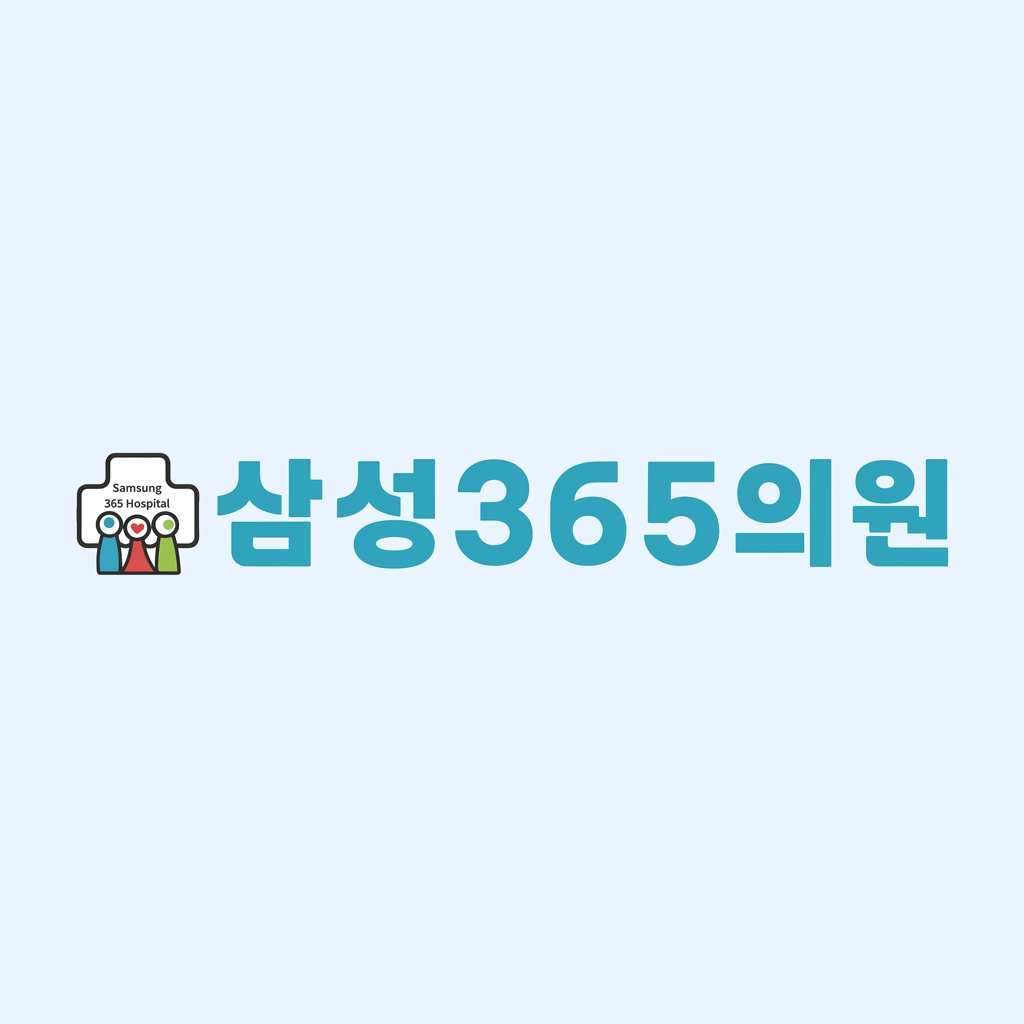
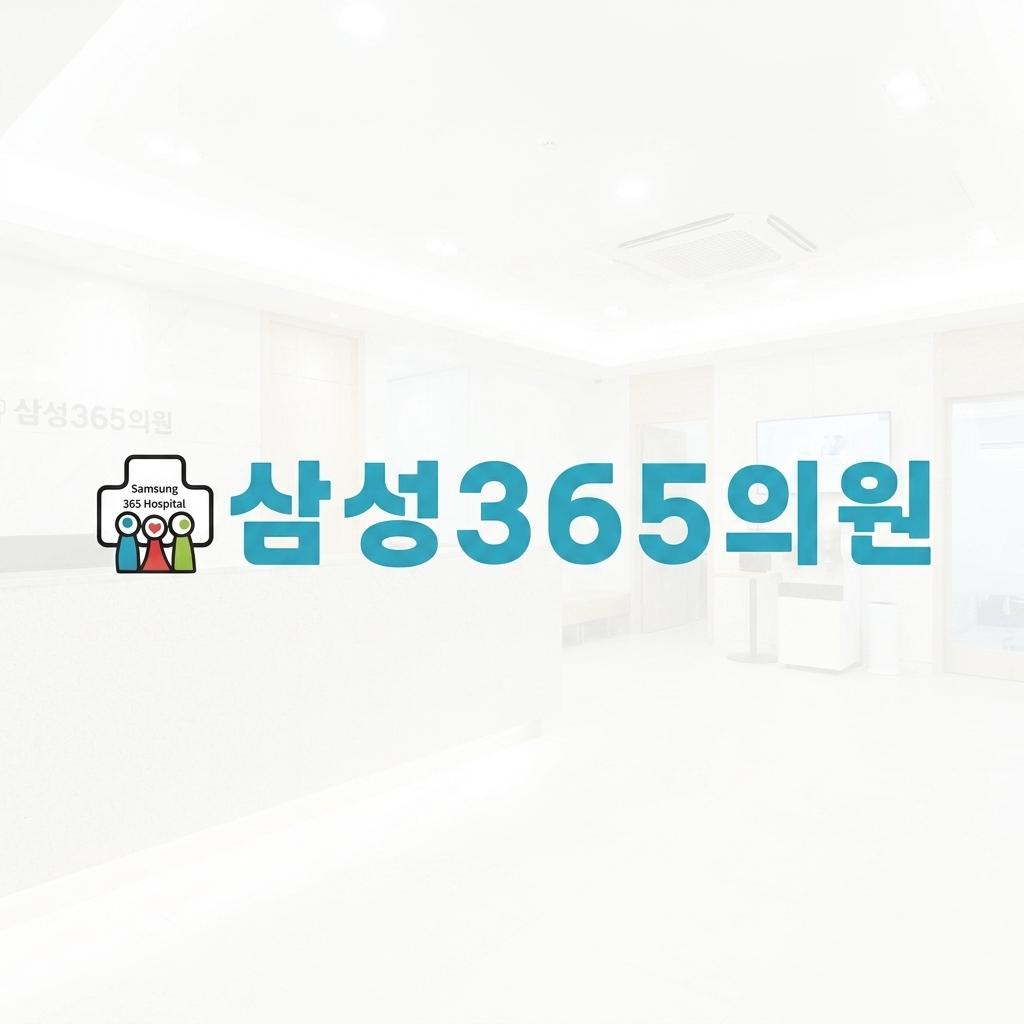
SEO: Update official domain to 3r-therapy.com, apply new OG image, and adjust mobile hero alignment

Changed region(s): [[0.0, 0.4375, 0.9375, 0.5625], [0.5625, 0.5938, 0.5938, 0.625], [0.4688, 0.5312, 0.5, 0.5625]]

diff --git a/index.html b/index.html
@@ -12,8 +12,8 @@
     <meta property="og:title" content="삼성365의원">
     <meta property="og:description" content="근본적인 원인을 찾아 정밀하게 진단합니다.">
     <meta property="og:type" content="website">
-    <meta property="og:url" content="https://samsung365clinic.com/index.html">
-    <meta property="og:image" content="https://samsung365clinic.com/og-image.png">
+    <meta property="og:url" content="https://3r-therapy.com/index.html">
+    <meta property="og:image" content="https://3r-therapy.com/og-image.png">
     <!-- Pretendard Font -->
     <link href="https://unpkg.com/aos@2.3.1/dist/aos.css" rel="stylesheet">
     <link rel="stylesheet" as="style" crossorigin href="https://cdn.jsdelivr.net/gh/orioncactus/pretendard@v1.3.9/dist/web/static/pretendard.min.css" />
@@ -26,7 +26,7 @@
 <link rel="stylesheet" href="globals.css">
 <script src="https://cdn.jsdelivr.net/npm/@supabase/supabase-js@2"></script>
 
-    <link rel="canonical" href="https://samsung365clinic.com/index.html">
+    <link rel="canonical" href="https://3r-therapy.com/index.html">
 </head>
 <body class="overflow-x-hidden antialiased selection:bg-brand-accent selection:text-white break-keep">
     <!-- ==========================================
@@ -170,7 +170,7 @@
                 <!-- Changed strictly to object-center to ensure mathematical perfectly balanced cropping on overflow -->
                 <img src="hero-bg.webp" 
                      alt="SAMSUNG 365 CLINIC" 
-                     class="w-full h-full object-cover object-center">
+                     class="w-full h-full object-cover object-left md:object-center">
             </div>
             <!-- Hero Text Content -->
             <div class="relative z-10 max-w-[1600px] mx-auto px-6 md:px-12 xl:px-20 w-full mt-12 md:mt-0 pt-20">

diff --git a/spine-neck.html b/spine-neck.html
@@ -12,8 +12,8 @@
     <meta property="og:title" content="목통증 특화클리닉 | 삼성365의원">
     <meta property="og:description" content="단순한 뻐근함이 아닙니다. 목통증의 숨은 원인과 해결책을 확인하세요.">
     <meta property="og:type" content="website">
-    <meta property="og:url" content="https://samsung365clinic.com/spine-neck.html">
-    <meta property="og:image" content="https://samsung365clinic.com/og-image.png">
+    <meta property="og:url" content="https://3r-therapy.com/spine-neck.html">
+    <meta property="og:image" content="https://3r-therapy.com/og-image.png">
     <!-- Pretendard Font & AOS CSS -->
     <link href="https://unpkg.com/aos@2.3.1/dist/aos.css" rel="stylesheet">
     <link rel="stylesheet" as="style" crossorigin href="https://cdn.jsdelivr.net/gh/orioncactus/pretendard@v1.3.9/dist/web/static/pretendard.min.css" />
@@ -26,7 +26,7 @@
 <link rel="stylesheet" href="globals.css">
 <script src="https://cdn.jsdelivr.net/npm/@supabase/supabase-js@2"></script>
 
-    <link rel="canonical" href="https://samsung365clinic.com/spine-neck.html">
+    <link rel="canonical" href="https://3r-therapy.com/spine-neck.html">
 </head>
 <body class="overflow-x-hidden antialiased selection:bg-brand-accent selection:text-white break-keep">
     <!-- ==========================================

diff --git a/spine-waist.html b/spine-waist.html
@@ -11,8 +11,8 @@
     <meta property="og:title" content="허리통증 특화클리닉 | 삼성365의원">
     <meta property="og:description" content="단순한 요통이 아닙니다. 허리통증의 숨은 원인과 해결책을 확인하세요.">
     <meta property="og:type" content="website">
-    <meta property="og:url" content="https://samsung365clinic.com/spine-waist.html">
-    <meta property="og:image" content="https://samsung365clinic.com/og-image.png">
+    <meta property="og:url" content="https://3r-therapy.com/spine-waist.html">
+    <meta property="og:image" content="https://3r-therapy.com/og-image.png">
     <!-- Pretendard Font & AOS CSS -->
     <link href="https://unpkg.com/aos@2.3.1/dist/aos.css" rel="stylesheet">
     <link rel="stylesheet" as="style" crossorigin href="https://cdn.jsdelivr.net/gh/orioncactus/pretendard@v1.3.9/dist/web/static/pretendard.min.css" />
@@ -23,7 +23,7 @@
 <link rel="stylesheet" href="globals.css">
 <script src="https://cdn.jsdelivr.net/npm/@supabase/supabase-js@2"></script>
 
-    <link rel="canonical" href="https://samsung365clinic.com/spine-waist.html">
+    <link rel="canonical" href="https://3r-therapy.com/spine-waist.html">
 </head>
 <body class="overflow-x-hidden antialiased selection:bg-brand-accent selection:text-white break-keep">
     <!-- HEADER -->

diff --git a/spine-back.html b/spine-back.html
@@ -11,8 +11,8 @@
     <meta property="og:title" content="등통증 특화클리닉 | 삼성365의원">
     <meta property="og:description" content="단순한 피로가 아닙니다. 등통증의 숨은 원인과 해결책을 확인하세요.">
     <meta property="og:type" content="website">
-    <meta property="og:url" content="https://samsung365clinic.com/spine-back.html">
-    <meta property="og:image" content="https://samsung365clinic.com/og-image.png">
+    <meta property="og:url" content="https://3r-therapy.com/spine-back.html">
+    <meta property="og:image" content="https://3r-therapy.com/og-image.png">
     <!-- Pretendard Font & AOS CSS -->
     <link href="https://unpkg.com/aos@2.3.1/dist/aos.css" rel="stylesheet">
     <link rel="stylesheet" as="style" crossorigin href="https://cdn.jsdelivr.net/gh/orioncactus/pretendard@v1.3.9/dist/web/static/pretendard.min.css" />
@@ -23,7 +23,7 @@
 <link rel="stylesheet" href="globals.css">
 <script src="https://cdn.jsdelivr.net/npm/@supabase/supabase-js@2"></script>
 
-    <link rel="canonical" href="https://samsung365clinic.com/spine-back.html">
+    <link rel="canonical" href="https://3r-therapy.com/spine-back.html">
 </head>
 <body class="overflow-x-hidden antialiased selection:bg-brand-accent selection:text-white break-keep">
     <!-- HEADER -->

diff --git a/staff.html b/staff.html
@@ -12,8 +12,8 @@
     <meta property="og:title" content="의료진소개 | 삼성365의원">
     <meta property="og:description" content="삼성의료원 출신의 깊이 있는 진료 철학과 임상 경험을 소개합니다.">
     <meta property="og:type" content="website">
-    <meta property="og:url" content="https://samsung365clinic.com/staff.html">
-    <meta property="og:image" content="https://samsung365clinic.com/og-image.png">
+    <meta property="og:url" content="https://3r-therapy.com/staff.html">
+    <meta property="og:image" content="https://3r-therapy.com/og-image.png">
     <!-- Pretendard Font -->
     <link href="https://unpkg.com/aos@2.3.1/dist/aos.css" rel="stylesheet">
     <link rel="stylesheet" as="style" crossorigin href="https://cdn.jsdelivr.net/gh/orioncactus/pretendard@v1.3.9/dist/web/static/pretendard.min.css" />
@@ -26,7 +26,7 @@
 <link rel="stylesheet" href="globals.css">
 <script src="https://cdn.jsdelivr.net/npm/@supabase/supabase-js@2"></script>
 
-    <link rel="canonical" href="https://samsung365clinic.com/staff.html">
+    <link rel="canonical" href="https://3r-therapy.com/staff.html">
 </head>
 <body class="overflow-x-hidden antialiased selection:bg-brand-accent selection:text-white break-keep">
     <!-- ==========================================

diff --git a/hip-joint-pain.html b/hip-joint-pain.html
@@ -10,8 +10,8 @@
     <meta property="og:title" content="엉덩이 관절 특화클리닉 | 삼성365의원">
     <meta property="og:description" content="삶의 궤적을 결정하는 중심, 고관절의 안녕이 중요합니다.">
     <meta property="og:type" content="website">
-    <meta property="og:url" content="https://samsung365clinic.com/hip-joint-pain.html">
-    <meta property="og:image" content="https://samsung365clinic.com/og-image.png">
+    <meta property="og:url" content="https://3r-therapy.com/hip-joint-pain.html">
+    <meta property="og:image" content="https://3r-therapy.com/og-image.png">
 
     <link href="https://unpkg.com/aos@2.3.1/dist/aos.css" rel="stylesheet">
     <link rel="stylesheet" as="style" crossorigin href="https://cdn.jsdelivr.net/gh/orioncactus/pretendard@v1.3.9/dist/web/static/pretendard.min.css" />
@@ -20,7 +20,7 @@
 <link rel="stylesheet" href="globals.css">
 <script src="https://cdn.jsdelivr.net/npm/@supabase/supabase-js@2"></script>
 
-    <link rel="canonical" href="https://samsung365clinic.com/hip-joint-pain.html">
+    <link rel="canonical" href="https://3r-therapy.com/hip-joint-pain.html">
 </head>
 <body class="overflow-x-hidden antialiased selection:bg-brand-accent selection:text-white break-keep">
 

diff --git a/wrist-ankle-pain.html b/wrist-ankle-pain.html
@@ -10,8 +10,8 @@
     <meta property="og:title" content="손목/발목통증 특화클리닉 | 삼성365의원">
     <meta property="og:description" content="작은 관절의 디테일이 일상의 자유를 결정합니다.">
     <meta property="og:type" content="website">
-    <meta property="og:url" content="https://samsung365clinic.com/wrist-ankle-pain.html">
-    <meta property="og:image" content="https://samsung365clinic.com/og-image.png">
+    <meta property="og:url" content="https://3r-therapy.com/wrist-ankle-pain.html">
+    <meta property="og:image" content="https://3r-therapy.com/og-image.png">
 
     <link href="https://unpkg.com/aos@2.3.1/dist/aos.css" rel="stylesheet">
     <link rel="stylesheet" as="style" crossorigin href="https://cdn.jsdelivr.net/gh/orioncactus/pretendard@v1.3.9/dist/web/static/pretendard.min.css" />
@@ -20,7 +20,7 @@
 <link rel="stylesheet" href="globals.css">
 <script src="https://cdn.jsdelivr.net/npm/@supabase/supabase-js@2"></script>
 
-    <link rel="canonical" href="https://samsung365clinic.com/wrist-ankle-pain.html">
+    <link rel="canonical" href="https://3r-therapy.com/wrist-ankle-pain.html">
 </head>
 <body class="overflow-x-hidden antialiased selection:bg-brand-accent selection:text-white break-keep">
 

diff --git a/tinnitus-pain.html b/tinnitus-pain.html
@@ -10,8 +10,8 @@
     <meta property="og:title" content="이명 클리닉 | 삼성365의원">
     <meta property="og:description" content="조용한 일상을 위한 신경학적 접근. 이명의 근본 원인을 해결합니다.">
     <meta property="og:type" content="website">
-    <meta property="og:url" content="https://samsung365clinic.com/tinnitus-pain.html">
-    <meta property="og:image" content="https://samsung365clinic.com/og-image.png">
+    <meta property="og:url" content="https://3r-therapy.com/tinnitus-pain.html">
+    <meta property="og:image" content="https://3r-therapy.com/og-image.png">
 
     <link href="https://unpkg.com/aos@2.3.1/dist/aos.css" rel="stylesheet">
     <link rel="stylesheet" as="style" crossorigin href="https://cdn.jsdelivr.net/gh/orioncactus/pretendard@v1.3.9/dist/web/static/pretendard.min.css" />
@@ -20,7 +20,7 @@
 <link rel="stylesheet" href="globals.css">
 <script src="https://cdn.jsdelivr.net/npm/@supabase/supabase-js@2"></script>
 
-    <link rel="canonical" href="https://samsung365clinic.com/tinnitus-pain.html">
+    <link rel="canonical" href="https://3r-therapy.com/tinnitus-pain.html">
 </head>
 <body class="overflow-x-hidden antialiased selection:bg-brand-accent selection:text-white break-keep">
 

diff --git a/elbow-pain.html b/elbow-pain.html
@@ -10,8 +10,8 @@
     <meta property="og:title" content="팔꿈치통증 특화클리닉 | 삼성365의원">
     <meta property="og:description" content="물건을 잡는 사소한 동작까지, 팔꿈치의 건강이 결정합니다.">
     <meta property="og:type" content="website">
-    <meta property="og:url" content="https://samsung365clinic.com/elbow-pain.html">
-    <meta property="og:image" content="https://samsung365clinic.com/og-image.png">
+    <meta property="og:url" content="https://3r-therapy.com/elbow-pain.html">
+    <meta property="og:image" content="https://3r-therapy.com/og-image.png">
 
     <link href="https://unpkg.com/aos@2.3.1/dist/aos.css" rel="stylesheet">
     <link rel="stylesheet" as="style" crossorigin href="https://cdn.jsdelivr.net/gh/orioncactus/pretendard@v1.3.9/dist/web/static/pretendard.min.css" />
@@ -20,7 +20,7 @@
 <link rel="stylesheet" href="globals.css">
 <script src="https://cdn.jsdelivr.net/npm/@supabase/supabase-js@2"></script>
 
-    <link rel="canonical" href="https://samsung365clinic.com/elbow-pain.html">
+    <link rel="canonical" href="https://3r-therapy.com/elbow-pain.html">
 </head>
 <body class="overflow-x-hidden antialiased selection:bg-brand-accent selection:text-white break-keep">
 

diff --git a/shoulder-pain.html b/shoulder-pain.html
@@ -10,8 +10,8 @@
     <meta property="og:title" content="어깨통증 특화클리닉 | 삼성365의원">
     <meta property="og:description" content="굳어버린 어깨 관절의 기능을 정상화합니다.">
     <meta property="og:type" content="website">
-    <meta property="og:url" content="https://samsung365clinic.com/shoulder-pain.html">
-    <meta property="og:image" content="https://samsung365clinic.com/og-image.png">
+    <meta property="og:url" content="https://3r-therapy.com/shoulder-pain.html">
+    <meta property="og:image" content="https://3r-therapy.com/og-image.png">
 
     <link href="https://unpkg.com/aos@2.3.1/dist/aos.css" rel="stylesheet">
     <link rel="stylesheet" as="style" crossorigin href="https://cdn.jsdelivr.net/gh/orioncactus/pretendard@v1.3.9/dist/web/static/pretendard.min.css" />
@@ -20,7 +20,7 @@
 <link rel="stylesheet" href="globals.css">
 <script src="https://cdn.jsdelivr.net/npm/@supabase/supabase-js@2"></script>
 
-    <link rel="canonical" href="https://samsung365clinic.com/shoulder-pain.html">
+    <link rel="canonical" href="https://3r-therapy.com/shoulder-pain.html">
 </head>
 <body class="overflow-x-hidden antialiased selection:bg-brand-accent selection:text-white break-keep">
 

diff --git a/knee-pain.html b/knee-pain.html
@@ -10,8 +10,8 @@
     <meta property="og:title" content="무릎통증 특화클리닉 | 삼성365의원">
     <meta property="og:description" content="다시 걷는 즐거움, 무릎의 안정성이 결정합니다.">
     <meta property="og:type" content="website">
-    <meta property="og:url" content="https://samsung365clinic.com/knee-pain.html">
-    <meta property="og:image" content="https://samsung365clinic.com/og-image.png">
+    <meta property="og:url" content="https://3r-therapy.com/knee-pain.html">
+    <meta property="og:image" content="https://3r-therapy.com/og-image.png">
 
     <link href="https://unpkg.com/aos@2.3.1/dist/aos.css" rel="stylesheet">
     <link rel="stylesheet" as="style" crossorigin href="https://cdn.jsdelivr.net/gh/orioncactus/pretendard@v1.3.9/dist/web/static/pretendard.min.css" />
@@ -20,7 +20,7 @@
 <link rel="stylesheet" href="globals.css">
 <script src="https://cdn.jsdelivr.net/npm/@supabase/supabase-js@2"></script>
 
-    <link rel="canonical" href="https://samsung365clinic.com/knee-pain.html">
+    <link rel="canonical" href="https://3r-therapy.com/knee-pain.html">
 </head>
 <body class="overflow-x-hidden antialiased selection:bg-brand-accent selection:text-white break-keep">
 

diff --git a/tmj-pain.html b/tmj-pain.html
@@ -10,8 +10,8 @@
     <meta property="og:title" content="턱관절 통증 클리닉 | 삼성365의원">
     <meta property="og:description" content="턱의 불편함, 단순한 관절의 문제가 아닙니다.">
     <meta property="og:type" content="website">
-    <meta property="og:url" content="https://samsung365clinic.com/tmj-pain.html">
-    <meta property="og:image" content="https://samsung365clinic.com/og-image.png">
+    <meta property="og:url" content="https://3r-therapy.com/tmj-pain.html">
+    <meta property="og:image" content="https://3r-therapy.com/og-image.png">
 
     <link href="https://unpkg.com/aos@2.3.1/dist/aos.css" rel="stylesheet">
     <link rel="stylesheet" as="style" crossorigin href="https://cdn.jsdelivr.net/gh/orioncactus/pretendard@v1.3.9/dist/web/static/pretendard.min.css" />
@@ -20,7 +20,7 @@
 <link rel="stylesheet" href="globals.css">
 <script src="https://cdn.jsdelivr.net/npm/@supabase/supabase-js@2"></script>
 
-    <link rel="canonical" href="https://samsung365clinic.com/tmj-pain.html">
+    <link rel="canonical" href="https://3r-therapy.com/tmj-pain.html">
 </head>
 <body class="overflow-x-hidden antialiased selection:bg-brand-accent selection:text-white break-keep">
 
